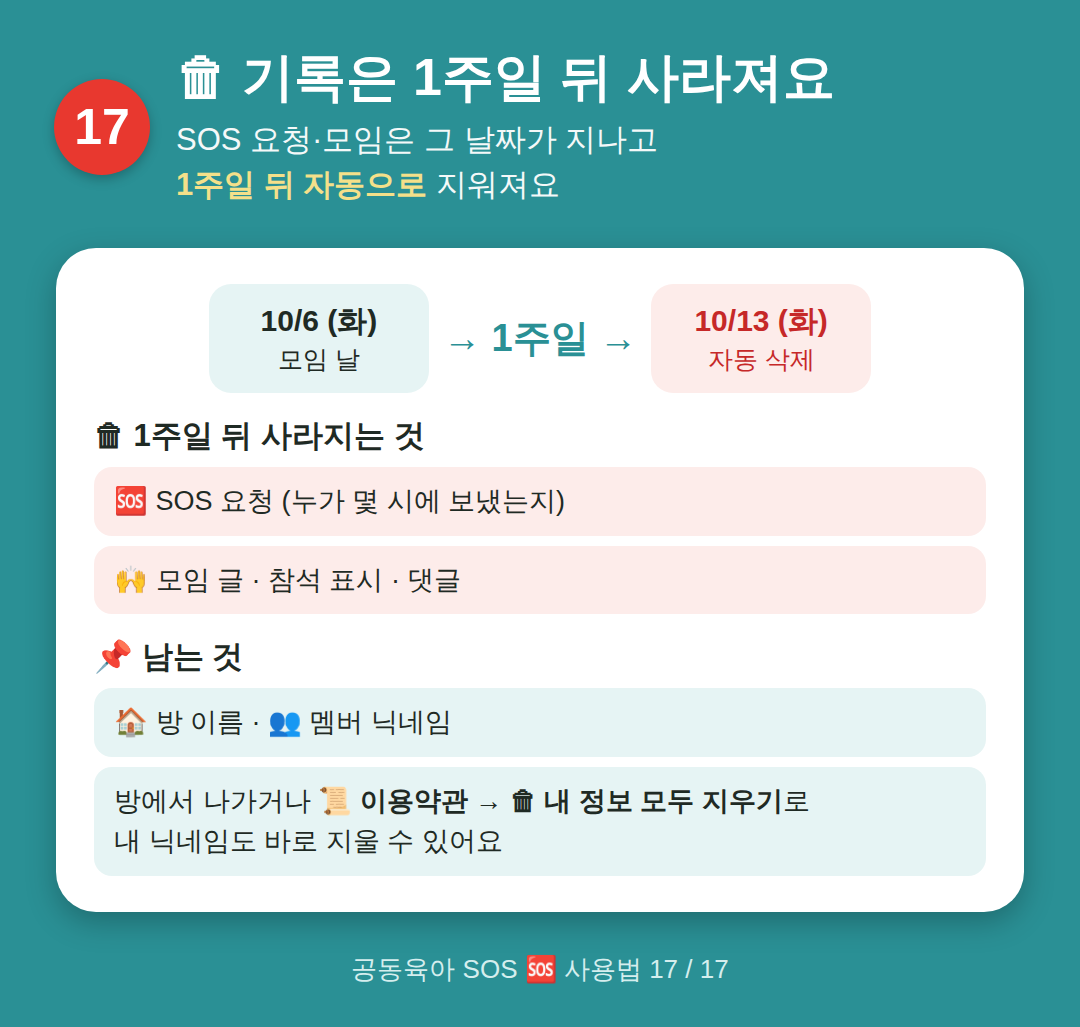
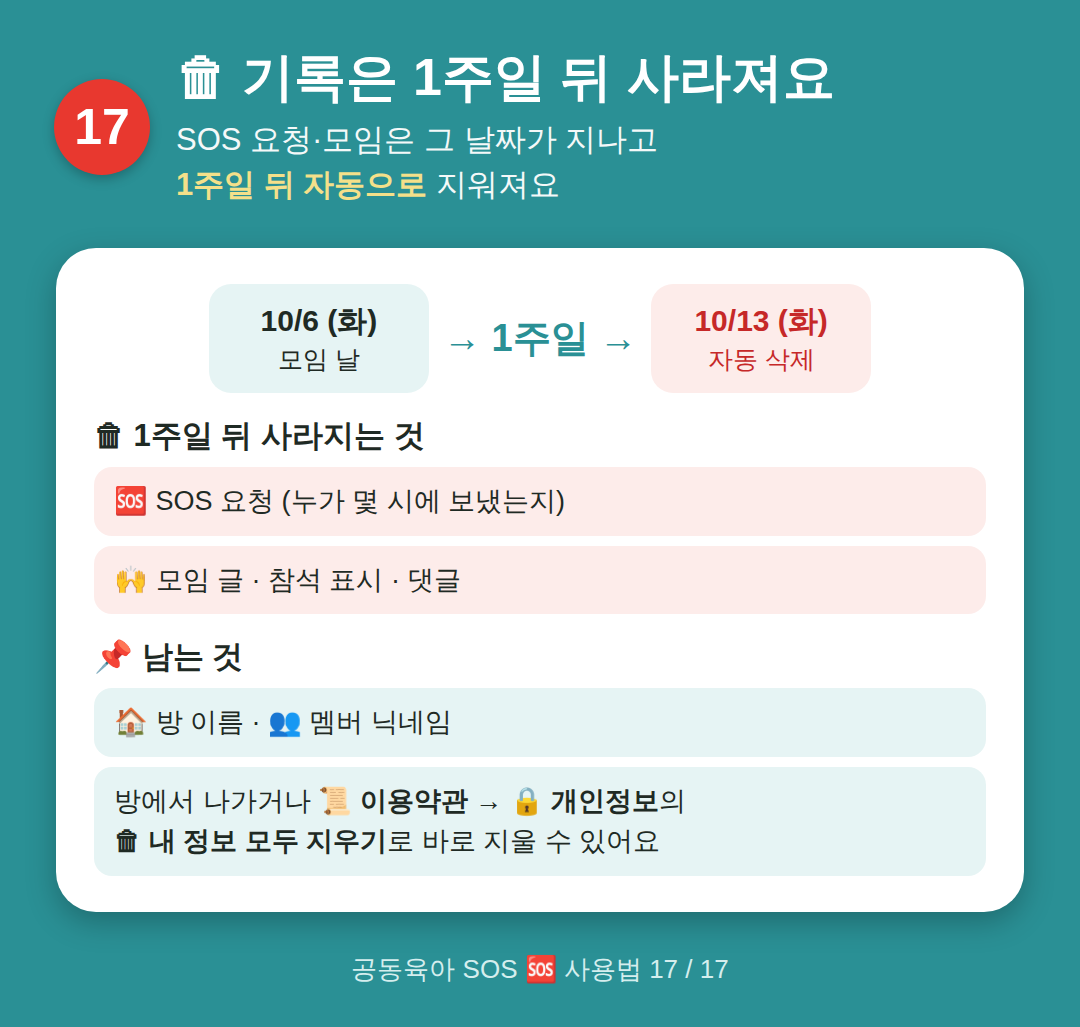
Terms: owner section, last-seen, date; fix line breaks; guide slide 17 path
Claude-Session: https://claude.ai/code/session_01EFizHcDdWswyQN5TmKwWHe

Changed region(s): [[0.0917, 0.7478, 0.7333, 0.8413]]

diff --git a/sos/terms.html b/sos/terms.html
@@ -8,14 +8,14 @@
 <link rel="preconnect" href="https://fonts.gstatic.com" crossorigin>
 <link rel="stylesheet" href="https://fonts.googleapis.com/css2?family=IBM+Plex+Sans+KR:wght@400;500;600;700&display=swap">
 <link rel="icon" href="assets/icon.svg" type="image/svg+xml">
-<link rel="manifest" href="manifest.webmanifest?v=202610050646">
+<link rel="manifest" href="manifest.webmanifest?v=202610050647">
 <meta name="theme-color" content="#2a9095">
 <link rel="apple-touch-icon" href="assets/icon-sos-180.png">
 <meta name="apple-mobile-web-app-capable" content="yes">
 <meta name="mobile-web-app-capable" content="yes">
 <meta name="apple-mobile-web-app-title" content="공동육아 SOS">
-<link rel="stylesheet" href="assets/common.css?v=202610050646">
-<script src="assets/gate.js?v=202610050646"></script>
+<link rel="stylesheet" href="assets/common.css?v=202610050647">
+<script src="assets/gate.js?v=202610050647"></script>
 </head>
 <body>
 <div class="wrap single">
@@ -51,10 +51,18 @@
       <ul class="safe-short">
         <li>글·댓글 옆 <b>🚩 신고</b>를 누르면 방장에게 전달돼요.</li>
         <li>방장은 문제 글을 <b>내리거나</b>,<br>멤버를 <b>내보낼</b> 수 있어요.</li>
-        <li>공동육아를 졸업하면 <b>👑 방장 넘기기</b>로<br>다른 멤버에게 넘겨 주세요.</li>
-        <li>방장이 60일 넘게 안 들어오거나 나가면,<br>멤버 누구나 방장을 <b>이어받을</b> 수 있어요.</li>
         <li>운영자도 규칙을 어긴 글·방을<br>알림 없이 지울 수 있어요.</li>
         <li>아이 안전과 관련된 문제는 바로 조치하고,<br>필요하면 관계 기관에 알려요.</li>
+      </ul>
+    </section>
+
+    <section class="safe-card">
+      <h2>👑 방장은 이렇게 해요</h2>
+      <ul class="safe-short">
+        <li>방을 만든 사람이 방장이에요.<br>멤버 관리와 방 지우기를 해요.</li>
+        <li>방장에게는 멤버의 <b>마지막 접속 날</b>이<br>보여요. 오래 안 온 멤버를 정리할 때 써요.</li>
+        <li>공동육아를 졸업하면 <b>👑 방장 넘기기</b>로<br>다른 멤버에게 넘겨 주세요.</li>
+        <li>방장이 60일 넘게 안 들어오거나 나가면,<br>멤버 누구나 방장을 <b>이어받을</b> 수 있어요.</li>
       </ul>
     </section>
 
@@ -71,11 +79,11 @@
       <h2>🔒 개인정보는 이렇게 다뤄요</h2>
       <ul class="safe-short">
         <li><b>실명·전화번호·이메일은 받지 않아요.</b><br>방에서 쓸 <b>닉네임</b>만 정해요.</li>
-        <li>서버에 남는 것: 방 이름, 닉네임, 마지막 접속 날,<br>SOS 요청 날짜·시간, 모임 글·참석·댓글</li>
+        <li>서버에 남는 것: 방 이름, 닉네임,<br>마지막 접속 날, SOS 요청 날짜·시간,<br>모임 글·참석·댓글</li>
         <li>비밀번호는 저장하지 않아요.<br><b>우리 방 사람만</b> 기록을 볼 수 있어요.</li>
         <li>SOS·모임·댓글은 날짜가 지나고<br><b>7일 뒤 자동으로 지워져요.</b></li>
-        <li>휴대폰마다 보이지 않는 로그인 번호가 하나 생겨요.<br>멤버인지 확인하는 데만 써요.</li>
-        <li>알림을 켜면 <b>알림 주소</b>만 Google 알림 서버에 등록돼요.</li>
+        <li>휴대폰마다 보이지 않는 로그인 번호가<br>하나 생겨요. 멤버인지 확인하는 데만 써요.</li>
+        <li>알림을 켜면 <b>알림 주소</b>만<br>Google 알림 서버에 등록돼요.</li>
       </ul>
       <p class="hint">자세한 내용은 <a href="safety.html">🔒 개인정보 안내</a>에 있어요.</p>
     </section>
@@ -91,13 +99,13 @@
     <section class="safe-card">
       <h2>✉ 문의 · 신고</h2>
       <p>운영자: <span data-contact></span><br>개인정보 안내는 <a href="safety.html">🔒 개인정보 페이지</a>에 있어요.</p>
-      <p class="hint">이 약관은 2026년 10월 4일부터 적용돼요.<br>바뀌면 앱 안에서 알려 드려요.</p>
+      <p class="hint">이 약관은 2026년 10월 5일부터 적용돼요.<br>바뀌면 앱 안에서 알려 드려요.</p>
     </section>
   </main>
 </div>
 <script src="https://www.gstatic.com/firebasejs/10.12.0/firebase-app-compat.js"></script>
 <script src="https://www.gstatic.com/firebasejs/10.12.0/firebase-auth-compat.js"></script>
 <script src="https://www.gstatic.com/firebasejs/10.12.0/firebase-firestore-compat.js"></script>
-<script src="assets/common.js?v=202610050646"></script>
+<script src="assets/common.js?v=202610050647"></script>
 </body>
 </html>

diff --git a/sos/safety.html b/sos/safety.html
@@ -8,14 +8,14 @@
 <link rel="preconnect" href="https://fonts.gstatic.com" crossorigin>
 <link rel="stylesheet" href="https://fonts.googleapis.com/css2?family=IBM+Plex+Sans+KR:wght@400;500;600;700&display=swap">
 <link rel="icon" href="assets/icon.svg" type="image/svg+xml">
-<link rel="manifest" href="manifest.webmanifest?v=202610050646">
+<link rel="manifest" href="manifest.webmanifest?v=202610050647">
 <meta name="theme-color" content="#2a9095">
 <link rel="apple-touch-icon" href="assets/icon-sos-180.png">
 <meta name="apple-mobile-web-app-capable" content="yes">
 <meta name="mobile-web-app-capable" content="yes">
 <meta name="apple-mobile-web-app-title" content="공동육아 SOS">
-<link rel="stylesheet" href="assets/common.css?v=202610050646">
-<script src="assets/gate.js?v=202610050646"></script>
+<link rel="stylesheet" href="assets/common.css?v=202610050647">
+<script src="assets/gate.js?v=202610050647"></script>
 </head>
 <body>
 <div class="wrap single">
@@ -135,8 +135,8 @@
 <script src="https://www.gstatic.com/firebasejs/10.12.0/firebase-auth-compat.js"></script>
 <script src="https://www.gstatic.com/firebasejs/10.12.0/firebase-firestore-compat.js"></script>
 <script src="https://www.gstatic.com/firebasejs/10.12.0/firebase-messaging-compat.js"></script>
-<script src="assets/common.js?v=202610050646"></script>
-<script src="assets/push.js?v=202610050646"></script>
+<script src="assets/common.js?v=202610050647"></script>
+<script src="assets/push.js?v=202610050647"></script>
 <script>
 document.getElementById('deleteMe').addEventListener('click', async e => {
   const yes = await sosConfirm({icon: '🗑', title: '내 정보를 모두 지울까요?', danger: true, ok: '모두 지우기',

diff --git a/sos/index.html b/sos/index.html
@@ -9,14 +9,14 @@
 <link rel="preconnect" href="https://fonts.gstatic.com" crossorigin>
 <link rel="stylesheet" href="https://fonts.googleapis.com/css2?family=IBM+Plex+Sans+KR:wght@400;500;600;700&display=swap">
 <link rel="icon" href="assets/icon.svg" type="image/svg+xml">
-<link rel="manifest" href="manifest.webmanifest?v=202610050646">
+<link rel="manifest" href="manifest.webmanifest?v=202610050647">
 <meta name="theme-color" content="#2a9095">
 <link rel="apple-touch-icon" href="assets/icon-sos-180.png">
 <meta name="apple-mobile-web-app-capable" content="yes">
 <meta name="mobile-web-app-capable" content="yes">
 <meta name="apple-mobile-web-app-title" content="공동육아 SOS">
-<link rel="stylesheet" href="assets/common.css?v=202610050646">
-<script src="assets/gate.js?v=202610050646"></script>
+<link rel="stylesheet" href="assets/common.css?v=202610050647">
+<script src="assets/gate.js?v=202610050647"></script>
 </head>
 <body>
 <div class="wrap single">
@@ -84,8 +84,8 @@
 <script src="https://www.gstatic.com/firebasejs/10.12.0/firebase-auth-compat.js"></script>
 <script src="https://www.gstatic.com/firebasejs/10.12.0/firebase-firestore-compat.js"></script>
 <script src="https://www.gstatic.com/firebasejs/10.12.0/firebase-messaging-compat.js"></script>
-<script src="assets/common.js?v=202610050646"></script>
-<script src="assets/push.js?v=202610050646"></script>
+<script src="assets/common.js?v=202610050647"></script>
+<script src="assets/push.js?v=202610050647"></script>
 <script>
 sosSummary();
 // 📲 설치 안내: 이미 앱으로 열었으면 숨기고, 내 휴대폰 종류의 안내를 먼저 펼쳐요

diff --git a/sos/meet.html b/sos/meet.html
@@ -8,14 +8,14 @@
 <link rel="preconnect" href="https://fonts.gstatic.com" crossorigin>
 <link rel="stylesheet" href="https://fonts.googleapis.com/css2?family=IBM+Plex+Sans+KR:wght@400;500;600;700&display=swap">
 <link rel="icon" href="assets/icon.svg" type="image/svg+xml">
-<link rel="manifest" href="manifest.webmanifest?v=202610050646">
+<link rel="manifest" href="manifest.webmanifest?v=202610050647">
 <meta name="theme-color" content="#2a9095">
 <link rel="apple-touch-icon" href="assets/icon-sos-180.png">
 <meta name="apple-mobile-web-app-capable" content="yes">
 <meta name="mobile-web-app-capable" content="yes">
 <meta name="apple-mobile-web-app-title" content="공동육아 SOS">
-<link rel="stylesheet" href="assets/common.css?v=202610050646">
-<script src="assets/gate.js?v=202610050646"></script>
+<link rel="stylesheet" href="assets/common.css?v=202610050647">
+<script src="assets/gate.js?v=202610050647"></script>
 </head>
 <body>
 <div class="wrap single">
@@ -69,8 +69,8 @@
 <script src="https://www.gstatic.com/firebasejs/10.12.0/firebase-auth-compat.js"></script>
 <script src="https://www.gstatic.com/firebasejs/10.12.0/firebase-firestore-compat.js"></script>
 <script src="https://www.gstatic.com/firebasejs/10.12.0/firebase-messaging-compat.js"></script>
-<script src="assets/common.js?v=202610050646"></script>
-<script src="assets/push.js?v=202610050646"></script>
-<script src="assets/meet.js?v=202610050646"></script>
+<script src="assets/common.js?v=202610050647"></script>
+<script src="assets/push.js?v=202610050647"></script>
+<script src="assets/meet.js?v=202610050647"></script>
 </body>
 </html>

diff --git a/sos/play.html b/sos/play.html
@@ -8,14 +8,14 @@
 <link rel="preconnect" href="https://fonts.gstatic.com" crossorigin>
 <link rel="stylesheet" href="https://fonts.googleapis.com/css2?family=IBM+Plex+Sans+KR:wght@400;500;600;700&display=swap">
 <link rel="icon" href="assets/icon.svg" type="image/svg+xml">
-<link rel="manifest" href="manifest.webmanifest?v=202610050646">
+<link rel="manifest" href="manifest.webmanifest?v=202610050647">
 <meta name="theme-color" content="#2a9095">
 <link rel="apple-touch-icon" href="assets/icon-sos-180.png">
 <meta name="apple-mobile-web-app-capable" content="yes">
 <meta name="mobile-web-app-capable" content="yes">
 <meta name="apple-mobile-web-app-title" content="공동육아 SOS">
-<link rel="stylesheet" href="assets/common.css?v=202610050646">
-<script src="assets/gate.js?v=202610050646"></script>
+<link rel="stylesheet" href="assets/common.css?v=202610050647">
+<script src="assets/gate.js?v=202610050647"></script>
 </head>
 <body>
 <div class="wrap">
@@ -135,8 +135,8 @@
 <script src="https://www.gstatic.com/firebasejs/10.12.0/firebase-app-compat.js"></script>
 <script src="https://www.gstatic.com/firebasejs/10.12.0/firebase-auth-compat.js"></script>
 <script src="https://www.gstatic.com/firebasejs/10.12.0/firebase-firestore-compat.js"></script>
-<script src="plays.js?v=202610050646"></script>
-<script src="assets/common.js?v=202610050646"></script>
-<script src="assets/play.js?v=202610050646"></script>
+<script src="plays.js?v=202610050647"></script>
+<script src="assets/common.js?v=202610050647"></script>
+<script src="assets/play.js?v=202610050647"></script>
 </body>
 </html>

diff --git a/sos/guide.html b/sos/guide.html
@@ -5,7 +5,7 @@
 <meta name="viewport" content="width=device-width,initial-scale=1,viewport-fit=cover">
 <title>사용법 · 공동육아 SOS</title>
 <link rel="icon" href="assets/icon.svg" type="image/svg+xml">
-<link rel="manifest" href="manifest.webmanifest?v=202610050646">
+<link rel="manifest" href="manifest.webmanifest?v=202610050647">
 <meta name="theme-color" content="#2a9095">
 <link rel="apple-touch-icon" href="assets/icon-sos-180.png">
 <style>
